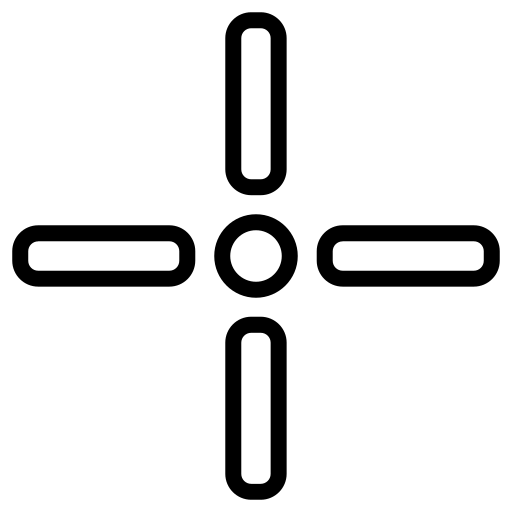
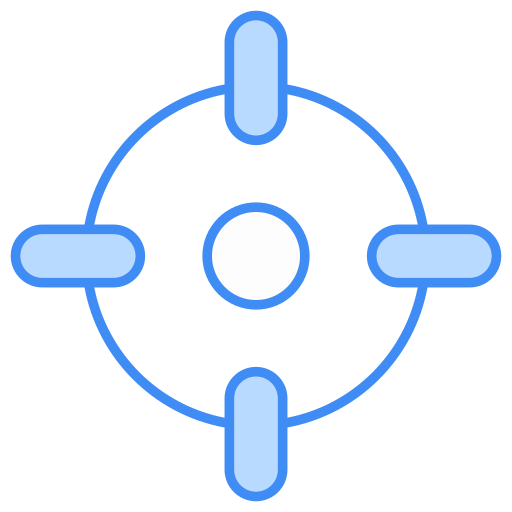
feat: updated crosshair cursor, document Shift+drag add-to-selection
- Regenerate crosshair cursor from updated source icon
- Add Shift+drag to keyboard shortcuts dialog and wiki docs
  (adds to existing selection without resetting)

Changed region(s): [[0.0, 0.0, 1.0, 1.0]]

diff --git a/src/components/Panels/KeyboardShortcutsDialog.tsx b/src/components/Panels/KeyboardShortcutsDialog.tsx
@@ -25,6 +25,7 @@ const SHORTCUT_SECTIONS: ShortcutSection[] = [
       { keys: 'Backspace', description: 'Delete selected' },
       { keys: 'Escape', description: 'Cancel / deselect' },
       { keys: 'Drag', description: 'Rectangle select' },
+      { keys: 'Shift+Drag', description: 'Add to selection' },
       { keys: 'Ctrl+Drag', description: 'Pan canvas' },
       { keys: 'Ctrl+Shift+K', description: 'Toggle dark mode' },
       { keys: 'Ctrl+Shift+A', description: 'Toggle AI Assistant' },

diff --git a/guides/wiki/keyboard-shortcuts.md b/guides/wiki/keyboard-shortcuts.md
@@ -100,6 +100,7 @@ Complete reference for all keyboard shortcuts and mouse interactions in Chart He
 | Double-click empty canvas | Create a new node at that position and enter label edit mode |
 | Right-click empty canvas | Open the canvas context menu |
 | Drag on empty canvas | Draw a selection rectangle (selects nodes it touches) |
+| Shift+drag on empty canvas | Draw a selection rectangle that adds to the current selection (does not reset existing selection) |
 | Ctrl+drag on empty canvas | Pan the viewport |
 | Scroll wheel | Zoom in and out, centered on the cursor |
 
